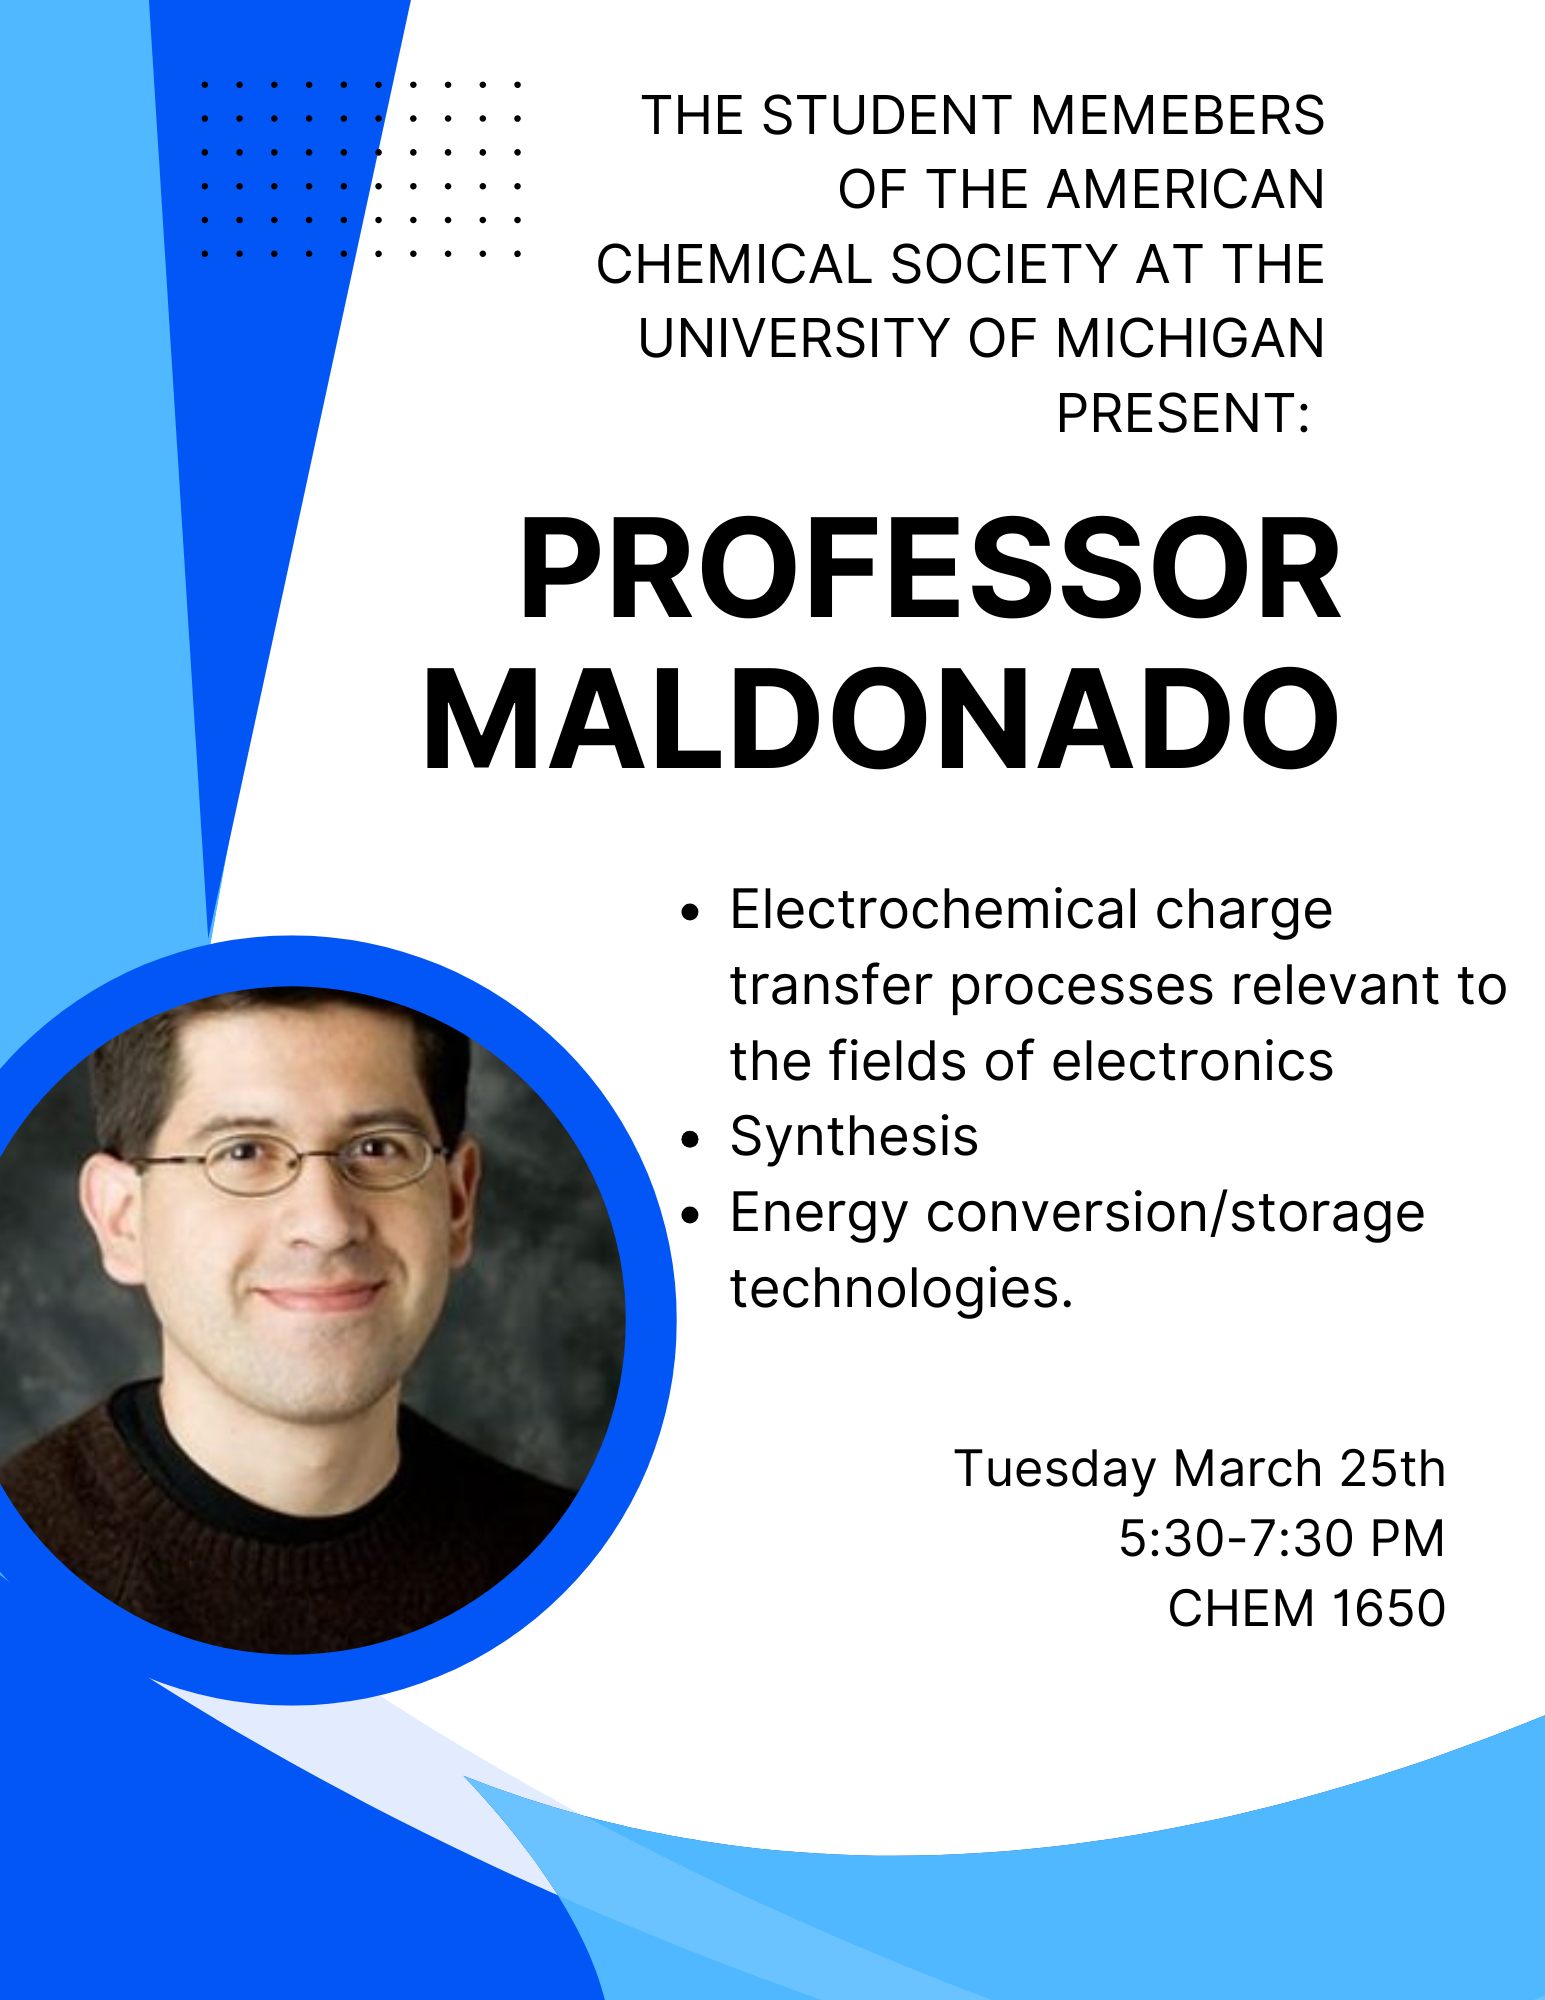
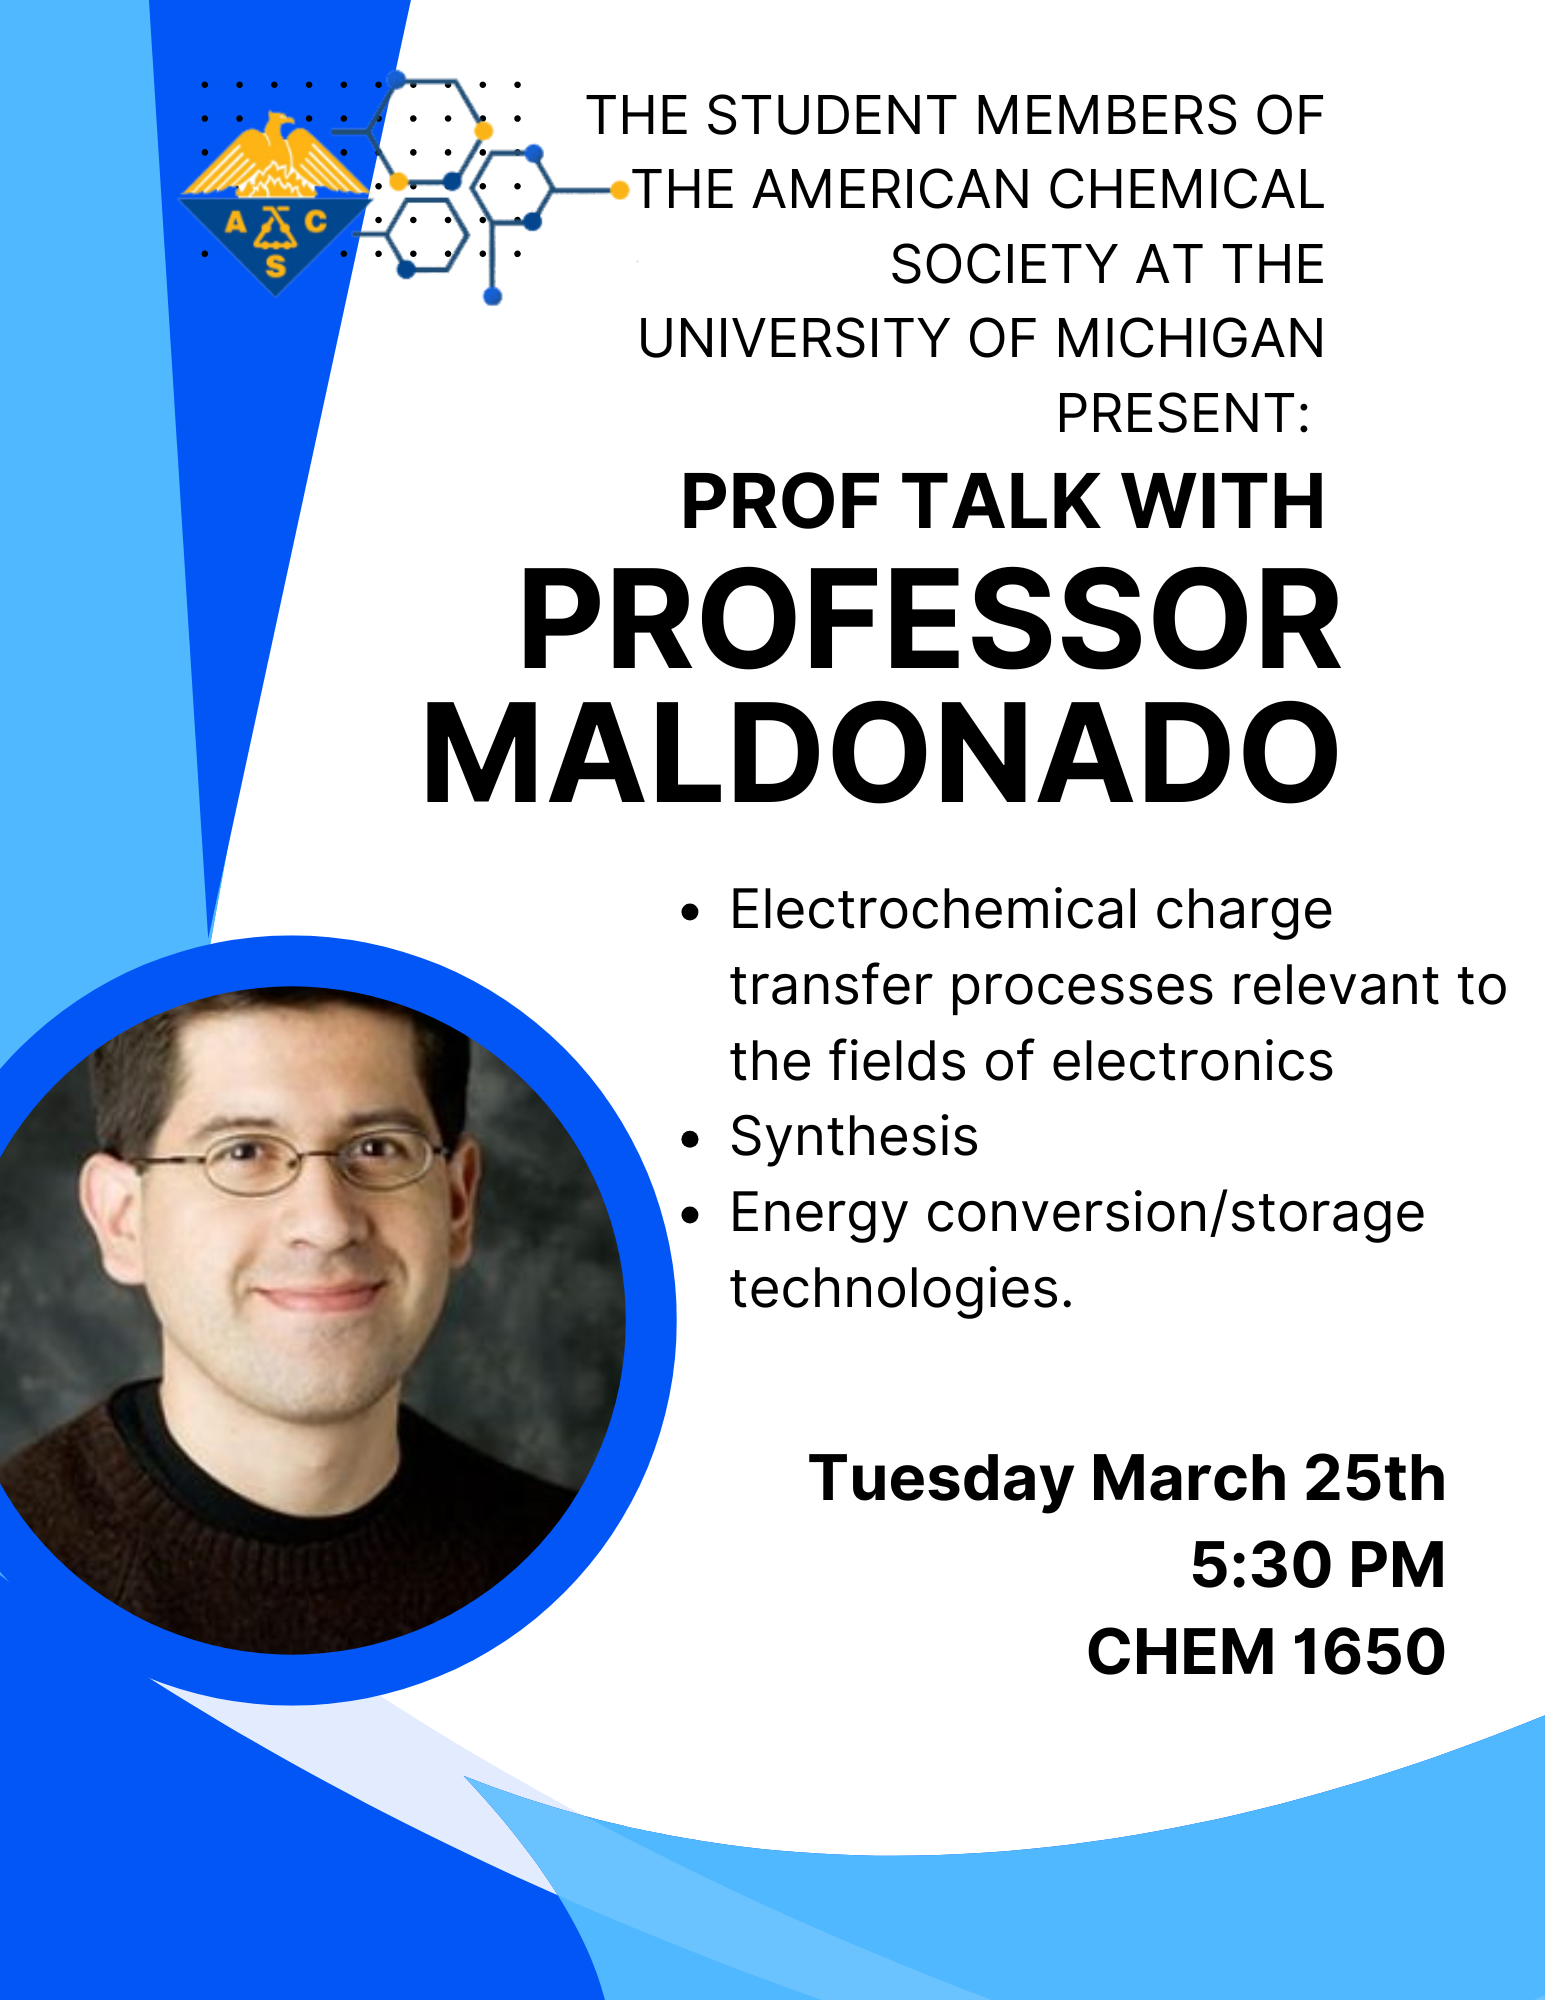
fixed typo, added prior workshop

Changed region(s): [[0.2796, 0.217, 0.8699, 0.403], [0.1243, 0.031, 0.8699, 0.155], [0.5282, 0.713, 0.932, 0.837]]

diff --git a/events.html b/events.html
@@ -44,6 +44,14 @@
             </div>
 
             <div class="card"> 
+                <a href="https://docs.google.com/presentation/d/1cyYAM4zGqBzPtj5WaB7iQwNmY_fNWYCwixmrzsasHWc/edit?usp=sharingp"><img src= "./images/workshop_thumbnails/CV_SOP.png" alt="Image 1"> 
+                <h3>Cookies and Crafts!</h3>
+                <p>2/24/25</p>
+                <br><br>
+                <!--<p>Learn how to apply to a lab, cold email a prof, etc</p>--> </a>
+            </div>
+            
+            <div class="card"> 
                 <a href="https://docs.google.com/presentation/d/15l1_2JWMR7h6UEXXqVmrYiDi1RtRTV4mvhsxCj1ZsBM/edit#slide=id.p"><img src= "./images/workshop_thumbnails/cookiesncrafts.png" alt="Image 1"> 
                 <h3>Cookies and Crafts!</h3>
                 <p>2/10/25</p>
